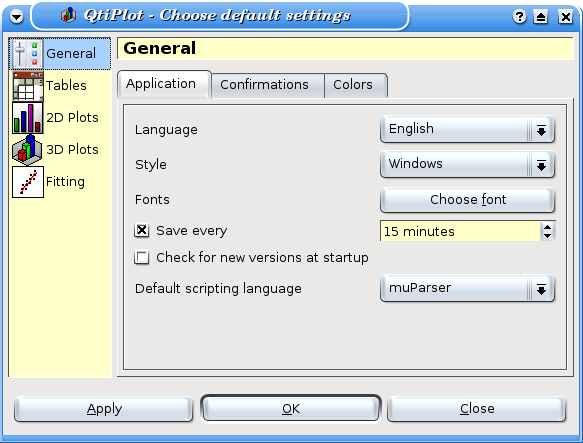
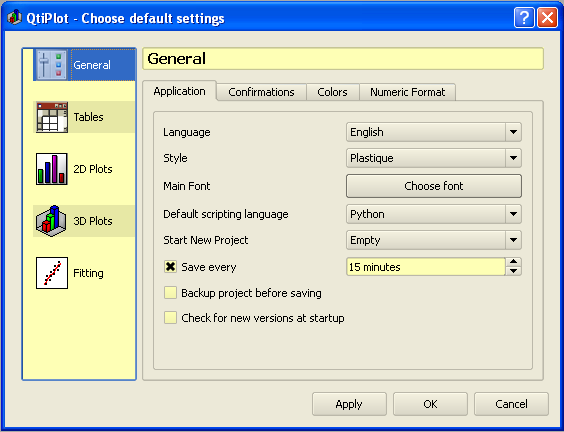
Improvements to the manual.

diff --git a/trunk/qtiplot/src/ConfigDialog.cpp b/trunk/qtiplot/src/ConfigDialog.cpp
@@ -528,7 +528,7 @@ void ConfigDialog::initAppPage()
 	boxScriptingLanguage->insertStringList(llist);
 	boxScriptingLanguage->setCurrentItem(llist.findIndex(app->defaultScriptingLang));
 	topBoxLayout->addWidget( boxScriptingLanguage, 3, 1 );
-	
+
 	lblInitWindow = new QLabel();
 	topBoxLayout->addWidget( lblInitWindow, 4, 0 );
 	boxInitWindow = new QComboBox();
@@ -544,11 +544,15 @@ void ConfigDialog::initAppPage()
 	boxMinutes->setEnabled(app->autoSave);
 	topBoxLayout->addWidget( boxMinutes, 5, 1 );
 
+    boxBackupProject = new QCheckBox();
+	boxBackupProject->setChecked(app->d_backup_files);
+	topBoxLayout->addWidget( boxBackupProject, 6, 0, 1, 2 );
+
 	boxSearchUpdates = new QCheckBox();
 	boxSearchUpdates->setChecked(app->autoSearchUpdates);
-	topBoxLayout->addWidget( boxSearchUpdates, 6, 0, 1, 2 );
+	topBoxLayout->addWidget( boxSearchUpdates, 7, 0, 1, 2 );
 
-	topBoxLayout->setRowStretch( 7, 1 );
+	topBoxLayout->setRowStretch( 8, 1 );
 
 	appTabWidget->addTab( application, QString() );
 
@@ -770,7 +774,7 @@ void ConfigDialog::initConfirmationsPage()
 
 	boxPromptRenameTables = new QCheckBox();
 	boxPromptRenameTables->setChecked(app->d_inform_rename_table);
-	
+
 	QVBoxLayout * confirmPageLayout = new QVBoxLayout( confirm );
 	confirmPageLayout->addWidget(groupBoxConfirm);
 	confirmPageLayout->addWidget(boxPromptRenameTables);
@@ -885,18 +889,19 @@ void ConfigDialog::languageChange()
 	lblPanelsText->setText(tr("Panels text"));
 	lblPanels->setText(tr("Panels"));
 	boxSave->setText(tr("Save every"));
+	boxBackupProject->setText(tr("&Backup project before saving"));
 	boxSearchUpdates->setText(tr("Check for new versions at startup"));
 	boxMinutes->setSuffix(tr(" minutes"));
 	lblScriptingLanguage->setText(tr("Default scripting language"));
-	lblInitWindow->setText(tr("Start with"));
+	lblInitWindow->setText(tr("Start New Project"));
 	boxInitWindow->clear();
-	boxInitWindow->addItem(tr("Empty Project"));
+	boxInitWindow->addItem(tr("Empty"));
 	boxInitWindow->addItem(tr("Table"));
 	boxInitWindow->addItem(tr("Matrix"));
 	boxInitWindow->addItem(tr("Empty Graph"));
 	boxInitWindow->addItem(tr("Note"));
 	boxInitWindow->setCurrentIndex((int)app->d_init_window_type);
-	
+
     boxUpdateSeparators->setText(tr("Update separators in Tables/Matrices"));
 	lblAppPrecision->setText(tr("Number of Decimal Digits"));
 	lblDecimalSeparator->setText(tr("Decimal Separators"));
@@ -1045,12 +1050,12 @@ void ConfigDialog::apply()
 	// 2D plots page: options tab
 	app->titleOn=boxTitle->isChecked();
 	app->allAxesOn = boxAllAxes->isChecked();
-	
+
 	if (boxFrame->isChecked())
 		app->canvasFrameWidth = boxFrameWidth->value();
 	else
 		app->canvasFrameWidth = 0;
-	
+
 	app->drawBackbones = boxBackbones->isChecked();
 	app->axesLineWidth = boxLineWidth->value();
 	app->defaultPlotMargin = boxMargin->value();
@@ -1087,6 +1092,7 @@ void ConfigDialog::apply()
 	app->changeAppStyle(boxStyle->currentText());
 	app->autoSearchUpdates = boxSearchUpdates->isChecked();
 	app->setSaveSettings(boxSave->isChecked(), boxMinutes->value());
+	app->d_backup_files = boxBackupProject->isChecked();
 	app->defaultScriptingLang = boxScriptingLanguage->currentText();
 	app->d_init_window_type = (ApplicationWindow::WindowType)boxInitWindow->currentIndex();
 

diff --git a/trunk/qtiplot/src/ApplicationWindow.cpp b/trunk/qtiplot/src/ApplicationWindow.cpp
@@ -389,6 +389,7 @@ void ApplicationWindow::initGlobalConstants()
 
 	autoSave = true;
 	autoSaveTime = 15;
+	d_backup_files = true;
 	defaultScriptingLang = "muParser";
 	d_thousands_sep = true;
 	d_locale = QLocale::system().name();
@@ -4139,6 +4140,7 @@ void ApplicationWindow::readSettings()
 	changeAppStyle(settings.value("/Style", appStyle).toString());
 	autoSave = settings.value("/AutoSave",true).toBool();
 	autoSaveTime = settings.value("/AutoSaveTime",15).toInt();
+    d_backup_files = settings.value("/BackupProjects", true).toBool();
 	d_init_window_type = (WindowType)settings.value("/InitWindow", TableWindow).toInt();
 	defaultScriptingLang = settings.value("/ScriptingLang","muParser").toString();
 	d_thousands_sep = settings.value("/ThousandsSeparator", true).toBool();
@@ -4409,6 +4411,7 @@ void ApplicationWindow::saveSettings()
 	settings.setValue("/Style", appStyle);
 	settings.setValue("/AutoSave", autoSave);
 	settings.setValue("/AutoSaveTime", autoSaveTime);
+	settings.setValue("/BackupProjects", d_backup_files);
 	settings.setValue("/InitWindow", int(d_init_window_type));
 
 	settings.setValue("/ScriptingLang", defaultScriptingLang);
@@ -12600,7 +12603,7 @@ void ApplicationWindow::showDemoVersionMessage()
 void ApplicationWindow::saveFolder(Folder *folder, const QString& fn, bool compress)
 {
 	QFile f( fn );
-	if (f.exists())
+	if (d_backup_files && f.exists())
 	{// make byte-copy of current file so that there's always a copy of the data on disk
 		while (!f.open(QIODevice::ReadOnly)){
 			if (f.isOpen())

diff --git a/trunk/qtiplot/src/ApplicationWindow.h b/trunk/qtiplot/src/ApplicationWindow.h
@@ -201,7 +201,7 @@ public slots:
 
 	QLocale locale(){return d_locale;};
 	void setLocale(const QLocale& l){d_locale = l;};
-	
+
 	void initWindow();
 	//@}
 
@@ -912,7 +912,7 @@ public slots:
 	 * \param dest destination folder item
 	 */
 	void moveFolder(FolderListItem *src, FolderListItem *dest);
-	
+
 	void foldersMenuActivated( int id );
 	//@}
 
@@ -937,6 +937,7 @@ signals:
 
 // TODO: a lot of this stuff should be private
 public:
+    bool d_backup_files;
 	WindowType d_init_window_type;
 	QRect d_script_win_rect;
 	bool d_script_win_on_top;

diff --git a/trunk/qtiplot/src/ConfigDialog.h b/trunk/qtiplot/src/ConfigDialog.h
@@ -160,7 +160,7 @@ private:
 	QLabel *lblScriptingLanguage, *lblInitWindow;
 	QComboBox *boxScriptingLanguage, *boxInitWindow;
 	QCheckBox *boxAntialiasing, *boxAutoscale3DPlots, *boxTableComments, *boxThousandsSeparator;
-	QCheckBox *boxPromptRenameTables;
+	QCheckBox *boxPromptRenameTables, *boxBackupProject;
 };
 
 #endif // CONFIGDIALOG_H
